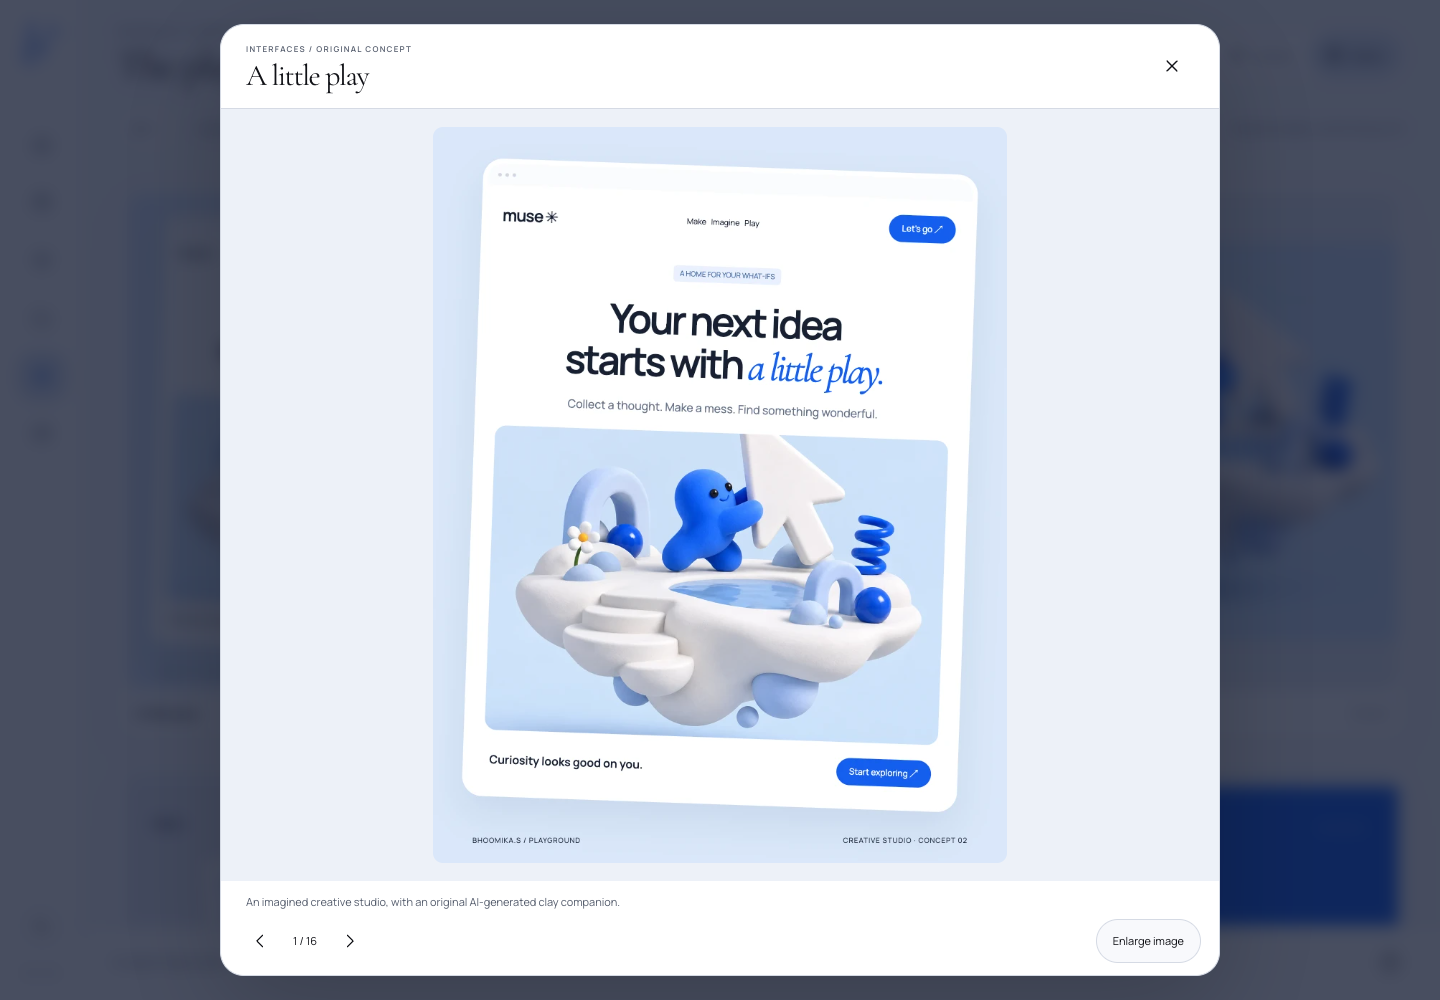
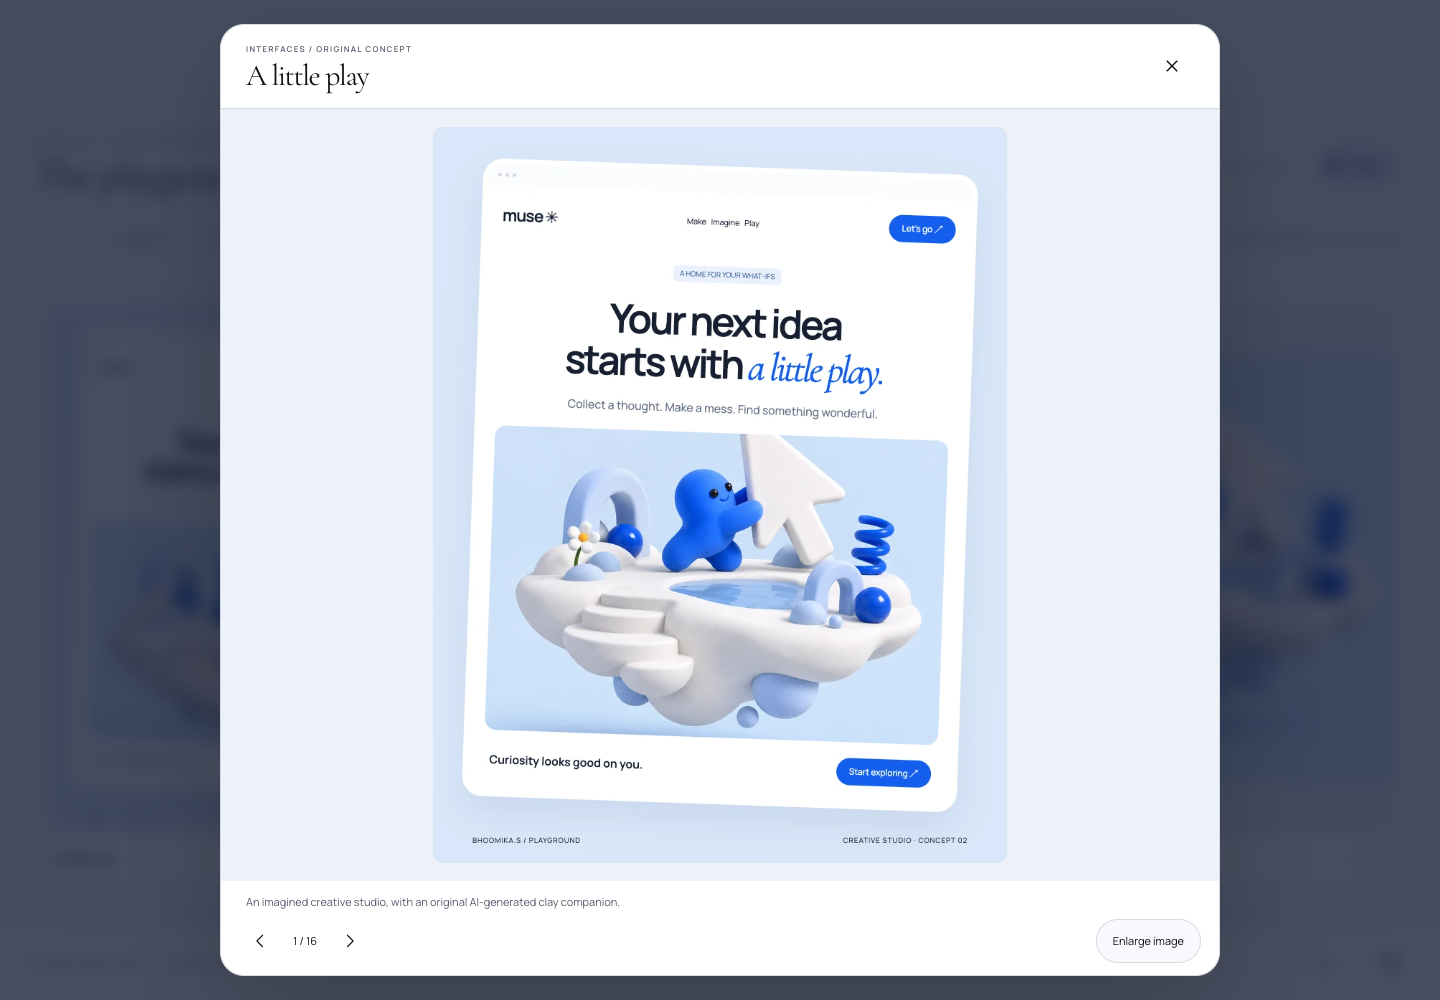
Use shared portfolio top navigation in the playground

diff --git a/src/styles/playground.css b/src/styles/playground.css
@@ -4,103 +4,15 @@
 }
 .playground-shell {
   position: fixed;
-  inset: 0;
-  display: grid;
-  grid-template-columns: 84px minmax(0, 1fr);
-  height: 100dvh;
+  inset: 110px 0 0;
+  display: flex;
+  height: calc(100dvh - 110px);
   background: var(--bg);
   color: var(--ink);
   overflow: hidden;
 }
-.play-rail {
-  position: relative;
-  z-index: 4;
-  display: flex;
-  flex-direction: column;
-  align-items: center;
-  background: var(--surface);
-  border-right: 1px solid var(--line);
-  padding: 20px 0;
-}
-.play-monogram {
-  position: relative;
-  font: italic 56px/0.9 var(--serif);
-  color: var(--blue);
-  padding: 0 15px 24px 0;
-  border-bottom: 1px solid var(--line);
-  margin-bottom: 25px;
-}
-.play-monogram > span {
-  font: 22px/1 var(--sans);
-  position: absolute;
-  right: 0;
-  top: 0;
-}
-.play-rail nav {
-  display: flex;
-  flex-direction: column;
-  gap: 10px;
-}
-.play-rail nav a {
-  width: 48px;
-  height: 48px;
-  display: grid;
-  place-items: center;
-  border-radius: 16px;
-  position: relative;
-  color: var(--muted);
-}
-.play-rail nav a:hover {
-  background: var(--soft);
-  color: var(--ink);
-}
-.play-rail nav a[aria-current] {
-  background: var(--powder);
-  color: var(--blue);
-  box-shadow: 0 3px 10px #10111607;
-}
-.play-rail nav a::after {
-  content: attr(data-tooltip);
-  position: absolute;
-  left: 60px;
-  top: 10px;
-  padding: 5px 12px;
-  background: var(--ink);
-  color: var(--bg);
-  border-radius: 7px;
-  font-size: 11px;
-  opacity: 0;
-  visibility: hidden;
-  pointer-events: none;
-  white-space: nowrap;
-}
-.play-rail nav a:hover::after,
-.play-rail nav a:focus-visible::after {
-  opacity: 1;
-  visibility: visible;
-}
-.play-rail-bottom {
-  margin-top: auto;
-  display: flex;
-  flex-direction: column;
-  align-items: center;
-  gap: 18px;
-}
-.play-rail-bottom .footer-theme {
-  padding: 0;
-  width: 44px;
-  height: 44px;
-  justify-content: center;
-}
-.play-rail-bottom .footer-theme span {
-  display: none;
-}
-.play-rail-signature {
-  color: var(--muted);
-  font-size: 8px;
-  letter-spacing: 0.1em;
-}
 .play-workspace {
+  flex: 1;
   display: flex;
   flex-direction: column;
   min-width: 0;
@@ -281,6 +193,15 @@
 }
 .play-bottom-bar > p > span {
   color: var(--blue);
+}
+.play-tools .footer-theme {
+  width: 44px;
+  height: 44px;
+  padding: 0;
+  justify-content: center;
+}
+.play-tools .footer-theme span {
+  display: none;
 }
 .play-tools {
   display: flex;
@@ -530,34 +451,13 @@
     line-height: 1.7;
   }
 }
-@media (max-width: 700px) {
+@media (max-width: 900px) {
   .playground-shell {
-    grid-template-columns: 58px minmax(0, 1fr);
+    top: 100px;
+    height: calc(100dvh - 100px);
   }
-  .play-rail {
-    padding-block: 18px;
-  }
-  .play-monogram {
-    font-size: 41px;
-    padding-right: 8px;
-    padding-bottom: 18px;
-    margin-bottom: 20px;
-  }
-  .play-monogram > span {
-    font-size: 16px;
-    right: -2px;
-  }
-  .play-rail nav {
-    gap: 8px;
-  }
-  .play-rail nav a {
-    width: 42px;
-    height: 44px;
-    border-radius: 12px;
-  }
-  .play-rail nav a::after {
-    left: 46px;
-  }
+}
+@media (max-width: 700px) {
   .play-topbar {
     padding: 19px 16px 10px;
     align-items: start;
@@ -608,6 +508,7 @@
     justify-content: center;
   }
   .play-icon-button,
+  .play-tools .footer-theme,
   .play-help summary {
     width: 36px;
     height: 44px;
@@ -659,19 +560,6 @@
   }
 }
 @media (max-height: 600px) {
-  .play-rail nav {
-    gap: 2px;
-  }
-  .play-rail nav a {
-    height: 38px;
-  }
-  .play-monogram {
-    margin-bottom: 10px;
-    padding-bottom: 12px;
-  }
-  .play-rail-signature {
-    display: none;
-  }
   .play-topbar {
     padding-top: 12px;
   }

diff --git a/src/pages/PlaygroundPage.tsx b/src/pages/PlaygroundPage.tsx
@@ -1,23 +1,12 @@
 import { useCallback, useEffect, useMemo, useState } from "react";
-import { Link, NavLink } from "react-router-dom";
 import { playgroundPieces } from "../data/playground";
 import type { PlaygroundCategory } from "../data/playground";
 import { usePlaygroundCanvas } from "../hooks/usePlaygroundCanvas";
 import Icon from "../components/playground/PlaygroundIcon";
-import type { PlaygroundIconName } from "../components/playground/PlaygroundIcon";
 import ImageViewer from "../components/playground/ImageViewer";
 import ThemeToggle from "../components/ThemeToggle";
 import "../styles/playground.css";
 
-const destinations: { label: string; to: string; icon: PlaygroundIconName }[] =
-  [
-    { label: "Home", to: "/", icon: "home" },
-    { label: "Experience", to: "/experience", icon: "experience" },
-    { label: "Education", to: "/education", icon: "education" },
-    { label: "Projects", to: "/projects", icon: "work" },
-    { label: "Playground", to: "/playground", icon: "play" },
-    { label: "Contact", to: "/contact", icon: "contact" },
-  ];
 const modulo = (value: number, by: number) => ((value % by) + by) % by;
 export default function PlaygroundPage() {
   const [mode, setMode] = useState<"canvas" | "gallery">("canvas");
@@ -78,31 +67,6 @@ export default function PlaygroundPage() {
   };
   return (
     <div className="playground-shell">
-      <aside className="play-rail">
-        <Link to="/" className="play-monogram" aria-label="Bhoomika.S home">
-          b<span>✳</span>
-        </Link>
-        <nav aria-label="Main navigation">
-          {destinations.map((item) => (
-            <NavLink
-              key={item.to}
-              to={item.to}
-              end={item.to === "/"}
-              aria-label={item.label}
-              data-tooltip={item.label}
-            >
-              <Icon name={item.icon} />
-              <span className="sr-only">{item.label}</span>
-            </NavLink>
-          ))}
-        </nav>
-        <div className="play-rail-bottom">
-          <ThemeToggle />
-          <span className="play-rail-signature" aria-hidden="true">
-            B.S / 26
-          </span>
-        </div>
-      </aside>
       <div className="play-workspace">
         <header className="play-topbar">
           <div className="play-title">
@@ -254,6 +218,8 @@ export default function PlaygroundPage() {
             )}
           </p>
           <div className="play-tools">
+            <ThemeToggle />
+            <span className="play-tool-divider" />
             {mode === "canvas" && (
               <>
                 <button

diff --git a/tests/playground.spec.ts b/tests/playground.spec.ts
@@ -166,6 +166,12 @@ test("touch pan and pinch, compact layouts and reduced motion", async ({
   });
   const page = await context.newPage();
   await page.goto("http://127.0.0.1:4173/playground");
+  await page.getByRole("button", { name: "Menu", exact: true }).click();
+  const navigation = page.getByRole("navigation", { name: "Main navigation" });
+  await expect(navigation).toBeVisible();
+  await expect(navigation.getByRole("link", { name: "Playground", exact: true })).toHaveAttribute("aria-current", "page");
+  await page.keyboard.press("Escape");
+  await expect(navigation).toBeHidden();
   const canvas = page.getByRole("region", { name: "Infinite design canvas" });
   await expect(canvas).toBeVisible();
   const r = await canvas.boundingBox();

diff --git a/tests/portfolio.spec.ts b/tests/portfolio.spec.ts
@@ -252,6 +252,7 @@ test("portfolio navigation, active pill and page metadata", async ({
     ["Experience", "/experience"],
     ["Education", "/education"],
     ["Projects", "/projects"],
+    ["Playground", "/playground"],
     ["Contact", "/contact"],
     ["Home", "/"],
   ]) {

diff --git a/src/App.tsx b/src/App.tsx
@@ -355,7 +355,7 @@ export default function App() {
       </a>
       <div id="top" />
       <RouteEffects />
-      {pathname !== "/playground" && <Header />}
+      <Header />
       <main
         id="main"
         tabIndex={-1}

diff --git a/README.md b/README.md
@@ -85,7 +85,7 @@ The website intentionally does not claim production readiness for the source pro
 
 ## Original image playground
 
-`/playground` is a full-screen, image-only design playground inspired by the owner’s supplied screen recording. Sixteen original concepts (12 interface studies, two posters and two pieces of artwork) repeat across a continuous canvas. It is an endless arrangement of a finite collection, not an image-generation service. No Figma or external project links appear on the cards or in the image viewer. Concept imagery is clearly distinguished from real portfolio projects and client work.
+`/playground` is an image-only design playground inspired by the owner’s supplied screen recording. It uses the same shared top navigation and mobile menu as the rest of the portfolio; the canvas fills the viewport beneath it. Theme switching remains available in the bottom canvas toolbar. Sixteen original concepts (12 interface studies, two posters and two pieces of artwork) repeat across a continuous canvas. It is an endless arrangement of a finite collection, not an image-generation service. No Figma or external project links appear on the cards or in the image viewer. Concept imagery is clearly distinguished from real portfolio projects and client work.
 
 Drag or scroll to pan, pinch or Ctrl-scroll to zoom, and use the reset/shuffle controls to explore. Click an image for a larger preview with previous/next controls. Filters select interfaces, posters or artwork. Gallery mode provides a conventional scrollable grid and full Tab/Enter browsing. The focused canvas supports arrow keys, +/− and 0. Escape closes previews and returns focus. Reduced motion removes inertia and entrance/hover movement.
 

diff --git a/docs/QA.md b/docs/QA.md
@@ -83,3 +83,10 @@ Added the owner's Mahesh PU College (93.3%) and St. Mary's High School (83.3%) e
 - Fixed a CSS grid intrinsic-row sizing issue found in interaction tests: Gallery rows now keep their content height instead of overlapping. Corrected an existing reduced-motion test to wait for the newly mounted route before reading computed styles.
 - Inspected desktop Canvas, Gallery, expanded image preview, mobile Canvas and dark mobile Canvas; screenshots are `docs/qa/playground-*.png`. T3 collaborative preview worked for this revision; the repository’s Chrome workflow captured full-resolution QA images and ran automated checks.
 - Production TypeScript/build succeeded. The lazy playground chunk is 18.31 KB / 6.83 KB gzip plus 10.36 KB / 2.79 KB gzip of route CSS. Re-ran the editable-artboard renderer successfully. No new Lighthouse score is claimed; the lab result above predates this route.
+
+
+## Playground navigation correction
+
+Removed the reference-inspired left rail at the owner’s request. Playground now renders the shared `Header` with identical top pill navigation, active state and mobile menu. The canvas sits beneath the header and spans the full width; theme switching moved to the bottom toolbar. Production build and the four playground interaction/accessibility checks passed. Refreshed desktop, mobile, dark-mobile, Gallery and preview screenshots.
+
+Additional navigation/responsive run: all nine checks passed, covering all routes at seven widths, the shared active-pill navigation including Playground, and mobile menu dismissal followed by canvas touch gestures.
